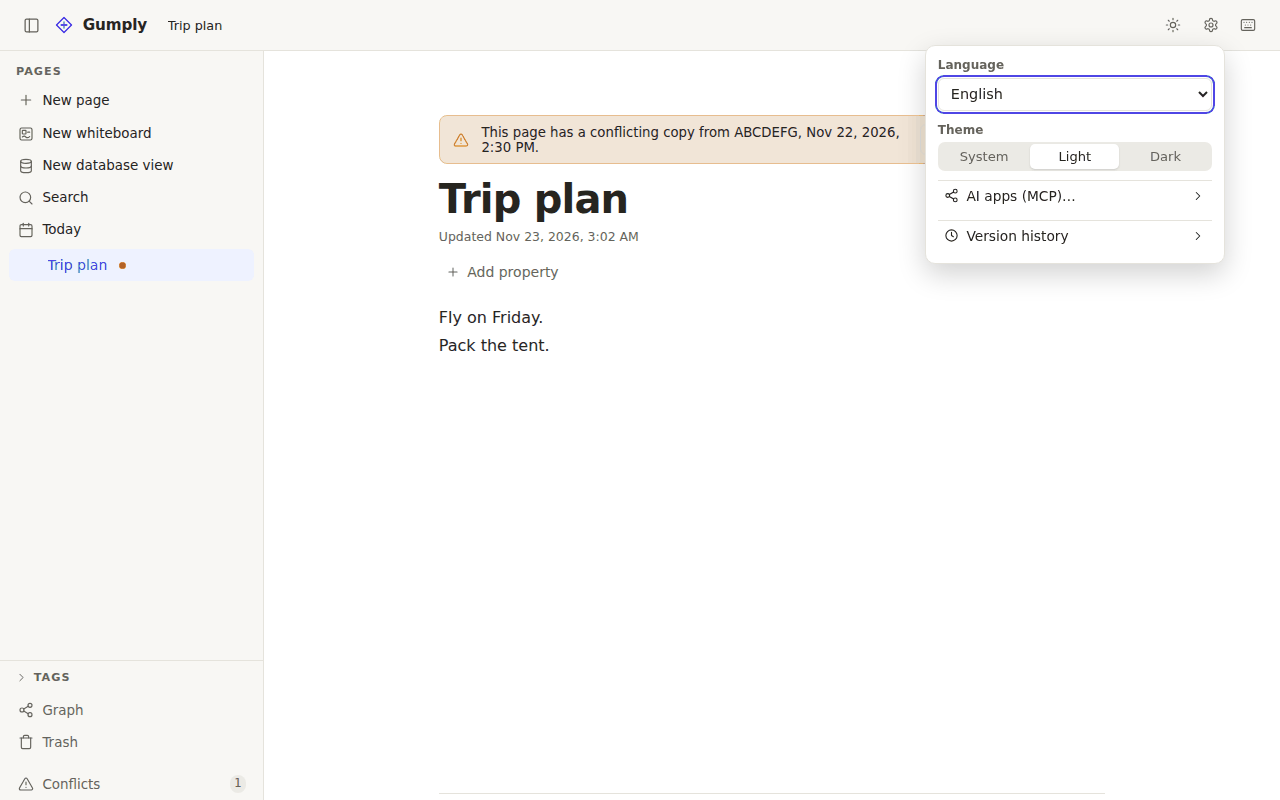
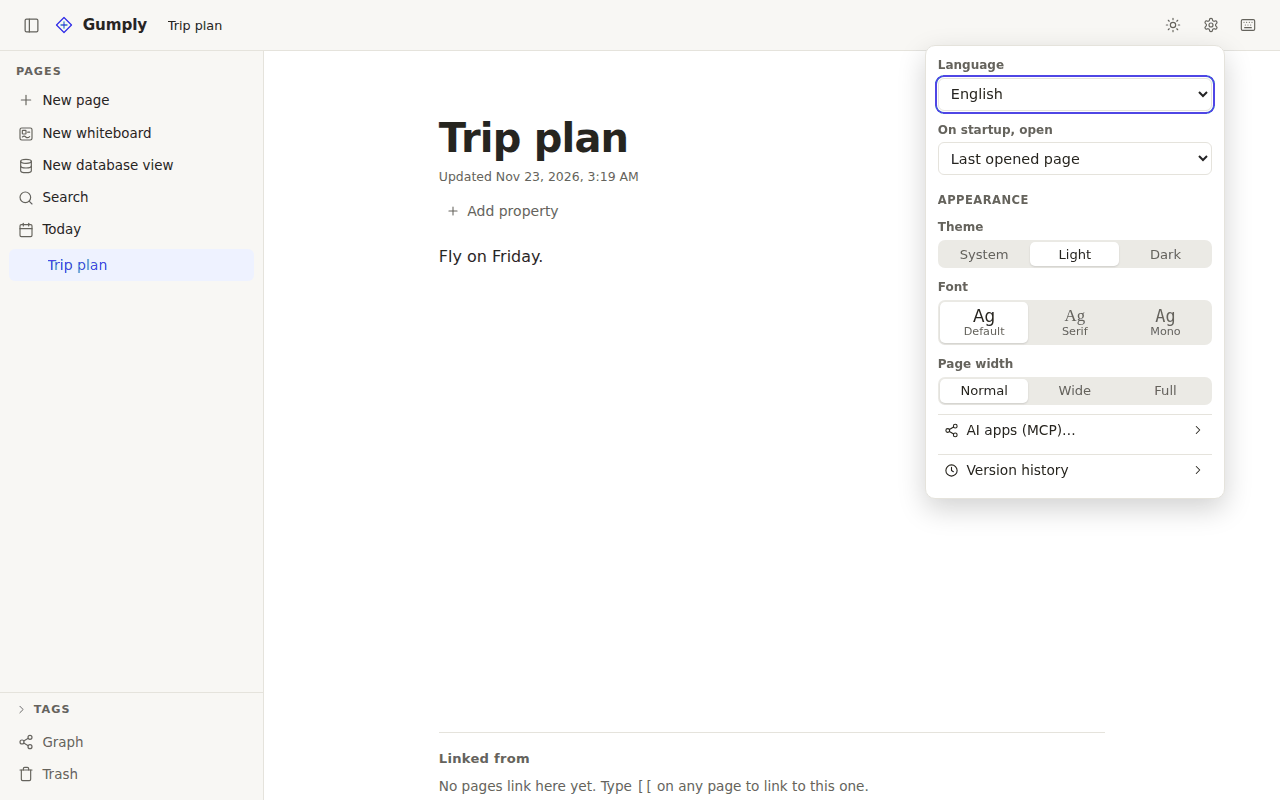
docs: guide Settings page covers Appearance and On startup (#6ka8s7mf)
Rebased on main 79e69f5 (#if236h9k): the placeholder becomes the real
section, in the popover's order (Language, On startup, Appearance with
Theme, Font and Page width, AI apps, Version history, Updates), and the
Settings screenshots are retaken in en and ru.

diff --git a/docs/guide/ru/settings-and-shortcuts.md b/docs/guide/ru/settings-and-shortcuts.md
@@ -4,13 +4,14 @@
 
 Откройте их шестерёнкой справа вверху.
 
-![Настройки: язык, тема, ИИ-приложения и история версий](../img/settings.ru.png)
+![Настройки: язык, что открывать при запуске, внешний вид, ИИ-приложения и история версий](../img/settings.ru.png)
 
 - **Язык:** английский или русский — или как в системе. Меню настольного приложения следуют ему.
-- **Тема:** Системная, Светлая или Тёмная. Переключает её и кнопка с солнцем или луной рядом с шестерёнкой.
-
-  ![Страница в тёмной теме](../img/page.dark.png)
-
+- **При запуске открывать:** **Последнюю страницу**, **Выбранную страницу** (её выбирают кнопкой **Выбрать…**) или **Заметку на сегодня**.
+- **Внешний вид:**
+  - **Тема:** Системная, Светлая или Тёмная. Переключает её и кнопка с солнцем или луной рядом с шестерёнкой.
+  - **Шрифт** страниц: **Обычный**, **С засечками** или **Моно**.
+  - **Ширина страницы:** **Обычная**, **Широкая** или **Полная** (во всё окно).
 - **ИИ-приложения (MCP)…** — разрешить ИИ-приложениям работать с хранилищем. См. [ИИ-приложения](ai-apps.md).
 - **История версий** — сколько места она занимает, очистка старых версий и строки для Syncthing. См. [История версий](version-history.md).
 - **Обновления…** (только в настольном приложении) — что делать, когда выходит новая версия:
@@ -19,7 +20,7 @@
   - **Не проверять обновления.**
   - **Проверить сейчас.** При проверке Gumply спрашивает у GitHub последний выпуск; GitHub видит ваш IP-адрес, больше ничего не передаётся.
 
-<!-- #if236h9k: «Внешний вид» (шрифт, ширина страницы) и «При запуске открывать» добавятся сюда, когда это изменение будет в main. -->
+![Страница в тёмной теме](../img/page.dark.png)
 
 Настройки хранятся на каждом устройстве свои: в настольном приложении — в папке пользовательских настроек, в браузере — в браузере. В хранилище они не попадают никогда.
 

diff --git a/docs/guide/en/settings-and-shortcuts.md b/docs/guide/en/settings-and-shortcuts.md
@@ -4,13 +4,14 @@
 
 Open them with the gear at the top right.
 
-![Settings: language, theme, AI apps and version history](../img/settings.en.png)
+![Settings: language, what opens on startup, appearance, AI apps and version history](../img/settings.en.png)
 
 - **Language:** English or Russian, or the same as your system. Menus in the desktop app follow it.
-- **Theme:** System, Light or Dark. The sun or moon button next to the gear switches it too.
-
-  ![A page in the dark theme](../img/page.dark.png)
-
+- **On startup, open:** the **Last opened page**, **A page I choose** (pick it with **Choose…**), or **Today's daily note**.
+- **Appearance:**
+  - **Theme:** System, Light or Dark. The sun or moon button next to the gear switches it too.
+  - **Font** for your pages: **Default**, **Serif** or **Mono**.
+  - **Page width:** **Normal**, **Wide**, or **Full** (the whole window).
 - **AI apps (MCP)…:** let AI apps use this vault. See [AI apps](ai-apps.md).
 - **Version history:** how much space it takes, clearing old versions, and the lines for Syncthing. See [Version history](version-history.md).
 - **Updates…** (desktop app only): what Gumply does when there's a new version:
@@ -19,7 +20,7 @@ Open them with the gear at the top right.
   - **Don't check for updates.**
   - **Check now.** A check asks GitHub for the latest release; GitHub sees your IP address, and nothing else is sent.
 
-<!-- #if236h9k: Appearance (font, page width) and "On startup, open" are added here once that change is on main. -->
+![A page in the dark theme](../img/page.dark.png)
 
 Settings are kept per device: in the desktop app, in your user settings folder; in a browser, in the browser. They're never stored in your vault.
 
